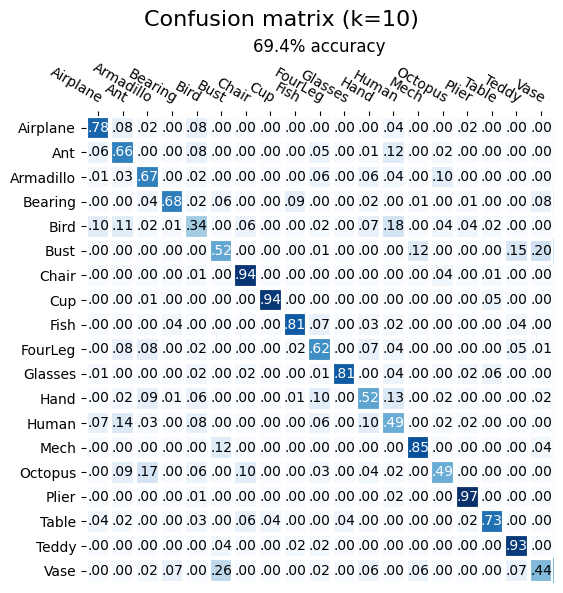
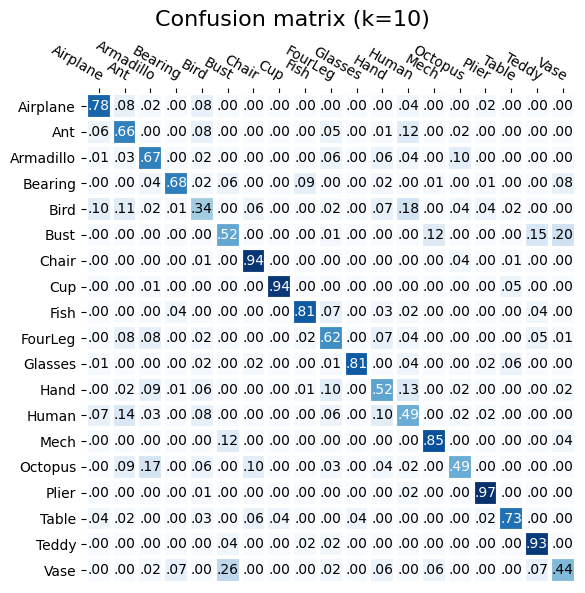
FIX: Bugfix for querying in GUI

Changed region(s): [[0.0, 0.0, 0.9964, 0.9713], [0.2416, 0.0, 0.4529, 0.0607]]

diff --git a/src/database/querier.py b/src/database/querier.py
@@ -34,7 +34,7 @@ class CustomFeatureDatabaseQuerier:
         shape_paths = deepcopy(self.paths)
         vectors = np.array([descriptors.to_list() for descriptors in shape_values])
 
-        vectors = vectors * WEIGHT_VECTOR
+        vectors = vectors * DESCRIPTOR_WEIGHT_VECTOR
         query_descriptors = query_descriptors * DESCRIPTOR_WEIGHT_VECTOR
 
         relative_vectors = vectors - query_descriptors

diff --git a/src/plot/confusion_matrix.py b/src/plot/confusion_matrix.py
@@ -25,7 +25,6 @@ class ConfusionMatrixPlotter:
 
         fig.tight_layout()
         plt.suptitle(f'Confusion matrix (k={k})', fontdict={'size': util.BIGGER_SIZE})
-        plt.title(f'{accuracy*100:.1f}% accuracy', fontdict={'fontsize': util.MEDIUM_SIZE})
 
         io.save_plt(os.path.join(PLOT_CONFUSION_MATRICES, f'k={k}_acc={accuracy:.3f}_{WEIGHT_VECTOR_STR}.png'))
 
